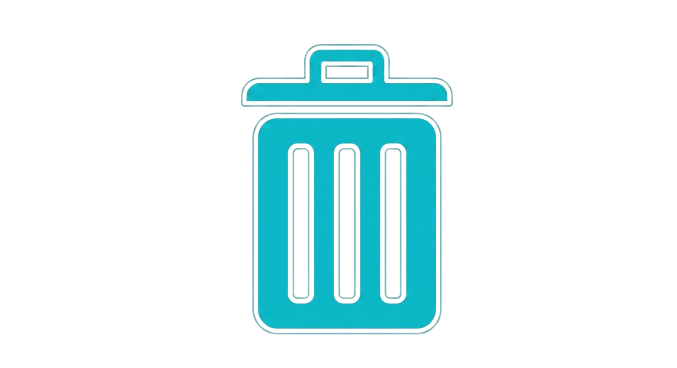
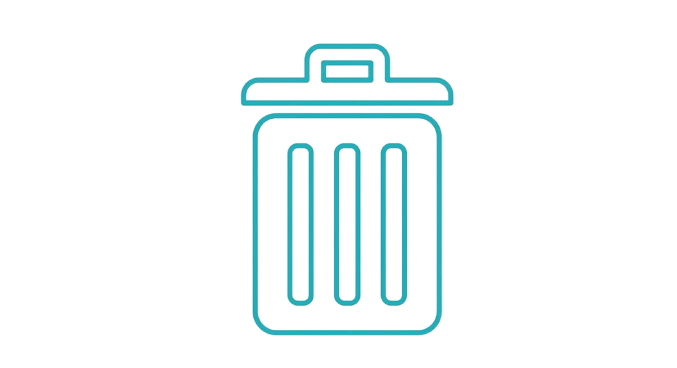
fix(compras): crash en NUEVO PEDIDO/FACTURA + avisos homologación + ✉ + Actualizar con carga
- BUG (#11): _DialogoPedido/_DialogoFactura pasaban una lista de strings a _combo (que espera
  tuplas (etiqueta,valor)) → ValueError al abrir NUEVO PEDIDO/NUEVA FACTURA. Se pasan tuplas
  (razon_social, id_proveedor); el índice sigue mapeando a self._provs.
- (#4) Homologación (Avanzado): "Aprobar/Suspender/Editar descuento/Bloquear" muestran un aviso
  "Selecciona un proveedor…" cuando no hay proveedor seleccionado (antes no hacían nada).
- (#5) Iconos ✉ (emoji sobre) en "Invitar", "Enviar invitación" y "Reenviar invitación".
- (#8) Nuevo helper _btn_cargando: los botones "Actualizar" muestran "⏳  Actualizando…" y se
  deshabilitan mientras cargan. Aplicado en Pedidos/Recepciones/Facturas/Informes y en el Portal.
- (#2) La pestaña "RFQ / Subasta" ya se retiró (M4); se limpia el docstring del portal.

Sin migración nueva. 91 tests de compras/portal/bolsa verdes; gate de regresión (928) verde;
smoke de los diálogos NUEVO PEDIDO/FACTURA y del botón de carga.

Changed region(s): [[0.3412, 0.1196, 0.6824, 0.9266]]

diff --git a/src/gui/compras_gestion.py b/src/gui/compras_gestion.py
@@ -20,8 +20,8 @@ from PyQt6.QtWidgets import (QDialog, QDialogButtonBox, QFormLayout,
 
 from src.db import compras as C
 from src.db import proveedores as P
-from src.gui.catalogo_gestion import (_BG, _CIAN, _DIM, _SIDEBAR, _TEXT, _btn, _btn_salir_sidebar,
-                                      _combo, _dialogo_frameless, _inp, _tabla)
+from src.gui.catalogo_gestion import (_BG, _CIAN, _DIM, _SIDEBAR, _TEXT, _btn, _btn_cargando,
+                                      _btn_salir_sidebar, _combo, _dialogo_frameless, _inp, _tabla)
 from src.utils.i18n import tr
 
 logger = logging.getLogger("gui.compras")
@@ -257,7 +257,7 @@ class ComprasWindow(QWidget):
         # CANCELAR va DETRÁS de "Tramitar todos": retira el artículo seleccionado de la cola.
         fila.addWidget(_btn(tr("compras.cancelar", default="CANCELAR"), self._quitar_carrito_sel, danger=True))
         fila.addStretch(1)
-        fila.addWidget(_btn(tr("compras.actualizar", default="🔄  ACTUALIZAR"), self._load_pedidos, primary=True))
+        fila.addWidget(_btn_cargando(tr("compras.actualizar", default="🔄  ACTUALIZAR"), self._load_pedidos))
         ly.addLayout(fila)
 
         # ── BOLSA DE PROVEEDORES: comparar el precio de un artículo entre proveedores ──
@@ -619,7 +619,7 @@ class ComprasWindow(QWidget):
         fila.addWidget(QLabel(tr("compras.pedidos_recep", default="Pedidos pendientes de recibir")))
         fila.addStretch(1)
         fila.addWidget(_btn(tr("compras.recibir_todo", default="RECIBIR TODO"), self._recibir_sel, primary=True))
-        fila.addWidget(_btn(tr("compras.actualizar", default="🔄  ACTUALIZAR"), self._load_recepciones, primary=True))
+        fila.addWidget(_btn_cargando(tr("compras.actualizar", default="🔄  ACTUALIZAR"), self._load_recepciones))
         ly.addLayout(fila)
         # "Estado prov." = seguimiento que el proveedor reporta desde el Portal (bidireccional).
         self.tbl_rec = _tabla(["ID", tr("compras.numero", default="Número"),
@@ -674,7 +674,7 @@ class ComprasWindow(QWidget):
         fila.addWidget(_btn(tr("compras.nueva_factura", default="NUEVA FACTURA"), self._dlg_nueva_factura, primary=True))
         fila.addWidget(_btn(tr("compras.validar", default="VALIDAR"), self._validar_factura_sel, primary=True))
         fila.addStretch(1)
-        fila.addWidget(_btn(tr("compras.actualizar", default="🔄  ACTUALIZAR"), self._load_facturas, primary=True))
+        fila.addWidget(_btn_cargando(tr("compras.actualizar", default="🔄  ACTUALIZAR"), self._load_facturas))
         ly.addLayout(fila)
         self.tbl_fac = _tabla(["ID", tr("compras.numero", default="Nº factura"),
                                tr("compras.pedido", default="Pedido"),
@@ -729,7 +729,7 @@ class ComprasWindow(QWidget):
         ])
         self.cb_informe.currentIndexChanged.connect(lambda _i: self._cargar_informe())
         fila.addWidget(self.cb_informe, 1)
-        fila.addWidget(_btn(tr("compras.actualizar", default="🔄  ACTUALIZAR"), self._cargar_informe, primary=True))
+        fila.addWidget(_btn_cargando(tr("compras.actualizar", default="🔄  ACTUALIZAR"), self._cargar_informe))
         ly.addLayout(fila)
         self.tbl_inf = _tabla(["", "", "", ""])
         ly.addWidget(self.tbl_inf, 1)
@@ -847,7 +847,7 @@ class _DialogoPedido(QDialog):
         self.id_proveedor = None; self.lineas = []
         self._provs = proveedores
         ly = QVBoxLayout(self)
-        self.cb = _combo([p["razon_social"] for p in proveedores])
+        self.cb = _combo([(p["razon_social"], p["id_proveedor"]) for p in proveedores])
         ly.addWidget(QLabel(tr("compras.proveedor", default="Proveedor"))); ly.addWidget(self.cb)
         form = QFormLayout()
         self.in_cod = _inp("Código"); self.in_desc = _inp("Descripción")
@@ -893,7 +893,7 @@ class _DialogoFactura(QDialog):
         self.id_proveedor = None; self.numero = None; self.base = 0.0; self.iva = 0.0
         self._provs = proveedores
         ly = QVBoxLayout(self); form = QFormLayout()
-        self.cb = _combo([p["razon_social"] for p in proveedores])
+        self.cb = _combo([(p["razon_social"], p["id_proveedor"]) for p in proveedores])
         self.in_num = _inp("Nº factura"); self.in_base = _inp("Base"); self.in_iva = _inp("IVA")
         form.addRow(tr("compras.proveedor", default="Proveedor"), self.cb)
         form.addRow("Nº factura", self.in_num); form.addRow("Base", self.in_base); form.addRow("IVA", self.in_iva)

diff --git a/src/gui/portal_proveedor_gui.py b/src/gui/portal_proveedor_gui.py
@@ -2,9 +2,11 @@
 Portal de proveedor — lado EMPRESA (embebido en el módulo Proveedores).
 
 Orquesta `services.compras.portal` (la lógica vive allí; esta capa es solo interfaz). Pestañas:
-- Proveedores conectados: invitar / ver enlace / revocar / regenerar token + estado de conexión.
-- RFQ / Subasta inversa: crear peticiones de precio, ver ofertas y adjudicar (crea el pedido real).
+- Proveedores conectados: invitar / ver enlace / revocar / regenerar token + publicar en el mercado.
+- Invitaciones pendientes: proveedores invitados que aún no han entrado.
 - Mensajería: conversación empresa↔proveedor.
+(Las subastas/RFQ viven en la BOLSA UNIFICADA de la pestaña Pedidos: tarifas fijas + ofertas en vivo,
+Comprar ya / Pujar.)
 
 DEGRADABLE: funciona en local aunque el enlace remoto no esté desplegado; muestra el modo actual.
 Reutiliza los helpers visuales de `catalogo_gestion` (coherencia con el resto del módulo de compras).
@@ -17,7 +19,7 @@ from PyQt6.QtWidgets import (QDialog, QHBoxLayout, QLabel, QPlainTextEdit, QTabl
                              QTabWidget, QVBoxLayout, QWidget)
 
 from src.db import proveedores as P
-from src.gui.catalogo_gestion import (_BG, _CIAN, _DIM, _TEXT, _btn, _btn_x, _combo,
+from src.gui.catalogo_gestion import (_BG, _CIAN, _DIM, _TEXT, _btn, _btn_cargando, _btn_x, _combo,
                                       _dialogo_frameless, _inp, _tabla)
 from src.services.compras import portal
 
@@ -96,16 +98,16 @@ class PortalProveedorWindow(QWidget):
         self.in_email_inv = _inp("Email del proveedor (opcional)")
         fila.addWidget(QLabel("Proveedor:")); fila.addWidget(self.cmb_prov_inv, 1)
         fila.addWidget(self.in_email_inv, 1)
-        fila.addWidget(_btn("✉  Invitar", self._invitar, primary=True))
+        fila.addWidget(_btn("✉  Invitar", self._invitar, primary=True))
         ly.addLayout(fila)
         bar = QHBoxLayout()
-        bar.addWidget(_btn("✉  Enviar invitación", self._enviar_correo, primary=True))
+        bar.addWidget(_btn("✉  Enviar invitación", self._enviar_correo, primary=True))
         bar.addWidget(_btn("🔑  Ver enlace", self._ver_enlace, primary=True))
         bar.addWidget(_btn("♻  Regenerar token", self._regenerar, primary=True))
         bar.addWidget(_btn("🏷  Publicar en el mercado", self._publicar_mercado, primary=True))
         bar.addWidget(_btn("Revocar", self._revocar, danger=True))
         bar.addStretch()
-        bar.addWidget(_btn("🔄  Actualizar", self._cargar_cuentas, primary=True))
+        bar.addWidget(_btn_cargando("🔄  Actualizar", self._cargar_cuentas))
         ly.addLayout(bar)
         self.tbl_cuentas = _tabla(["ID", "Proveedor", "Email", "Estado", "Última conexión"])
         ly.addWidget(self.tbl_cuentas)
@@ -214,9 +216,9 @@ class PortalProveedorWindow(QWidget):
         info.setStyleSheet(f"color:{_DIM};font-size:12px;")
         ly.addWidget(info)
         bar = QHBoxLayout()
-        bar.addWidget(_btn("✉  Reenviar invitación", self._reenviar_pendiente, primary=True))
+        bar.addWidget(_btn("✉  Reenviar invitación", self._reenviar_pendiente, primary=True))
         bar.addStretch()
-        bar.addWidget(_btn("🔄  Actualizar", self._cargar_pendientes, primary=True))
+        bar.addWidget(_btn_cargando("🔄  Actualizar", self._cargar_pendientes))
         ly.addLayout(bar)
         self.tbl_pend = _tabla(["Proveedor", "Email", "Invitado el"])
         ly.addWidget(self.tbl_pend)
@@ -247,7 +249,7 @@ class PortalProveedorWindow(QWidget):
         self.cmb_prov_msg = _combo(self._provs() or [("(sin proveedores)", None)])
         self.cmb_prov_msg.currentIndexChanged.connect(lambda *_: self._cargar_hilo())
         fila.addWidget(QLabel("Proveedor:")); fila.addWidget(self.cmb_prov_msg, 1)
-        fila.addWidget(_btn("🔄  Actualizar", self._cargar_hilo, primary=True))
+        fila.addWidget(_btn_cargando("🔄  Actualizar", self._cargar_hilo))
         ly.addLayout(fila)
         self.txt_hilo = QPlainTextEdit(); self.txt_hilo.setReadOnly(True)
         self.txt_hilo.setStyleSheet(f"QPlainTextEdit{{background:#0D1117;color:{_TEXT};"

diff --git a/src/gui/catalogo_gestion.py b/src/gui/catalogo_gestion.py
@@ -78,6 +78,25 @@ def _btn(txt, slot=None, primary=False, danger=False) -> QPushButton:
     return b
 
 
+def _btn_cargando(txt, slot=None, primary=True, danger=False, cargando="⏳  Actualizando…"):
+    """Botón que al pulsarse muestra un estado de carga (`⏳  Actualizando…`), se deshabilita, ejecuta
+    `slot` y restaura su aspecto. Pensado para los botones de 'Actualizar'."""
+    b = _btn(txt, None, primary=primary, danger=danger)
+
+    def _run():
+        orig = b.text()
+        b.setText(cargando); b.setEnabled(False)
+        try:
+            from PyQt6.QtWidgets import QApplication
+            QApplication.processEvents()   # fuerza el repintado del estado de carga
+            if slot:
+                slot()
+        finally:
+            b.setText(orig); b.setEnabled(True)
+    b.clicked.connect(_run)
+    return b
+
+
 def _btn_x(slot=None) -> QPushButton:
     """Botón rojo 'X' para cerrar/volver (mismo estilo que la X de 'Devolución de ticket')."""
     b = QPushButton("✕"); b.setCursor(Qt.CursorShape.PointingHandCursor); b.setFixedSize(50, 44)

diff --git a/src/gui/compras_avanzado_gui.py b/src/gui/compras_avanzado_gui.py
@@ -83,12 +83,18 @@ class ComprasAvanzadoWindow(QWidget):
 
     def _homolog(self, estado):
         pid = self.cmb_prov.currentData()
-        if pid and C.set_homologacion_estado(pid, estado, self._emp()):
+        if not pid:
+            QMessageBox.information(self, "Homologación",
+                                    "Selecciona un proveedor antes de realizar esta acción.")
+            return
+        if C.set_homologacion_estado(pid, estado, self._emp()):
             self._refresca_cond()
 
     def _set_descuento(self):
         pid = self.cmb_prov.currentData()
         if not pid:
+            QMessageBox.information(self, "Homologación",
+                                    "Selecciona un proveedor antes de editar su descuento.")
             return
         val, ok = QInputDialog.getDouble(self, "Descuento", "Descuento %:", 0, 0, 100, 2)
         if ok:
